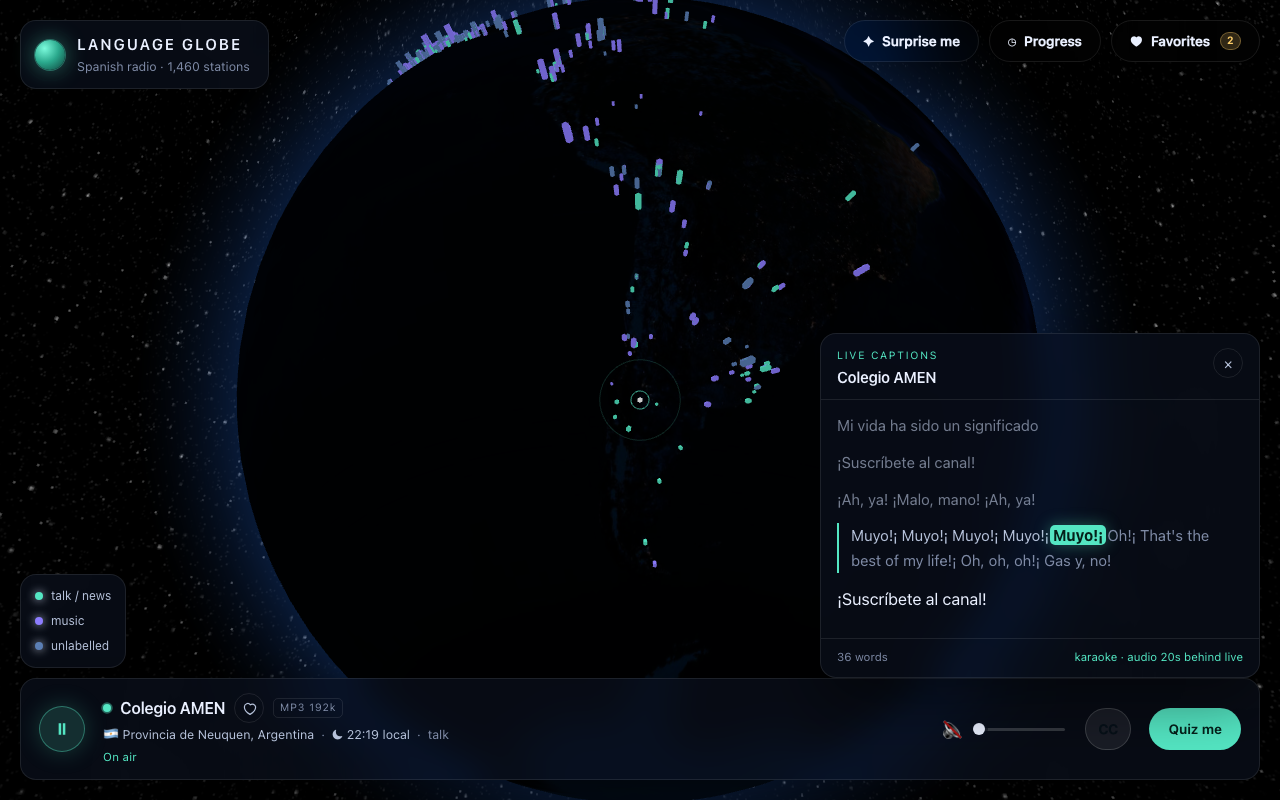
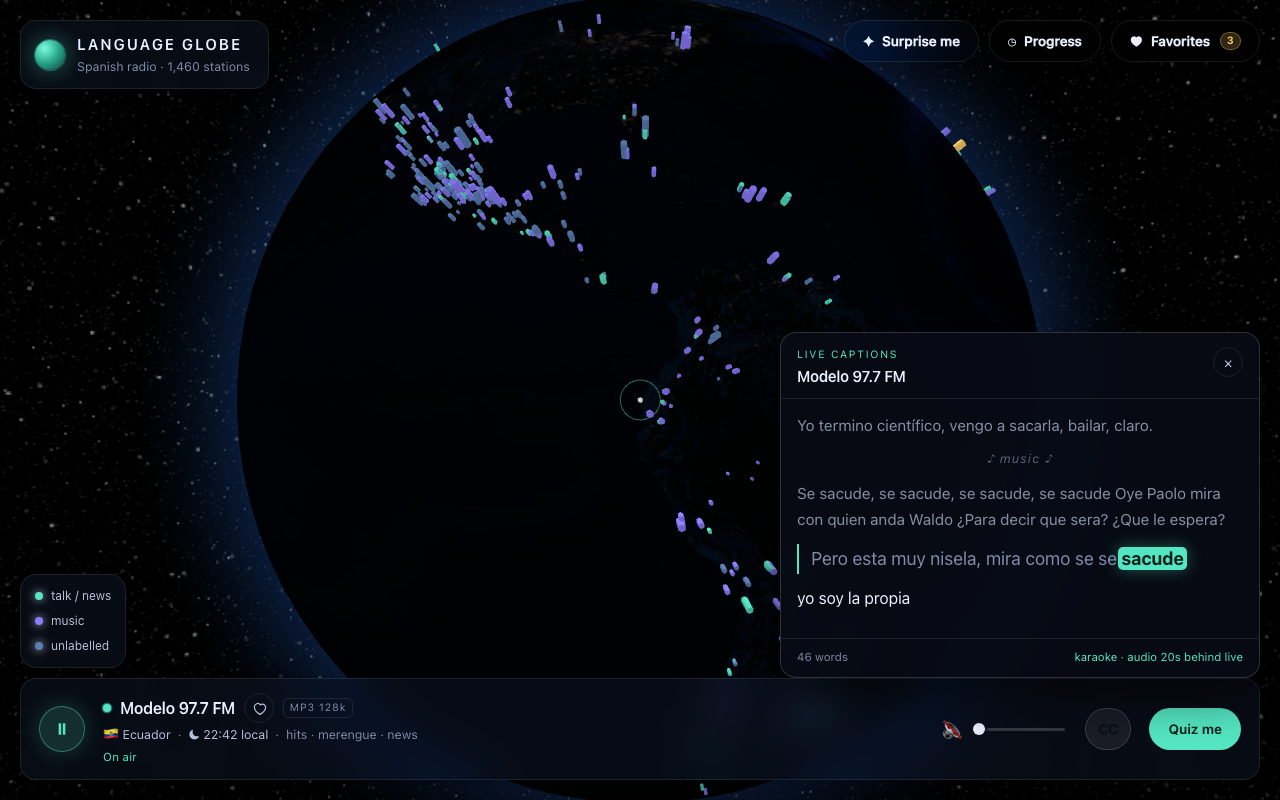
Make captions readable over the globe
The shared glass tint (62% opacity) let the starfield bleed through caption
text. Captions now sit on a near-opaque backdrop with a stronger edge, and
the reading hierarchy follows the audio: the chunk being SPOKEN is the
largest and brightest (it outranks the newest transcribed chunk, which runs
~20s ahead of playback), upcoming words stay readable, and only already-
spoken words fade. Refresh the PR demo assets.

diff --git a/frontend/src/styles.css b/frontend/src/styles.css
@@ -632,12 +632,18 @@ code {
   z-index: 4;
   right: 20px;
   bottom: 122px;
-  width: min(440px, calc(100vw - 40px));
+  width: min(480px, calc(100vw - 40px));
   max-height: min(56vh, 520px);
   display: flex;
   flex-direction: column;
   overflow: hidden;
   animation: rise-in 220ms ease-out;
+  /* Reading surface: the shared .glass tint (62% opacity) lets the globe and
+     starfield bleed through the text, so captions get a near-opaque backdrop
+     and a stronger edge instead. */
+  background: rgba(7, 11, 20, 0.94);
+  border: 1px solid var(--hairline-strong);
+  box-shadow: 0 18px 48px rgba(0, 0, 0, 0.55);
 }
 
 @keyframes rise-in {
@@ -741,21 +747,25 @@ code {
 
 .captions__chunk {
   color: var(--ink-secondary);
-  font-size: 15px;
+  font-size: 15.5px;
   line-height: 1.65;
   margin-bottom: 12px;
-  opacity: 0.62;
+  opacity: 0.72;
 }
 
 .captions__chunk--latest {
   color: var(--ink);
-  font-size: 16.5px;
+  font-size: 16px;
   opacity: 1;
 }
 
+/* The chunk being SPOKEN is the one the reader follows — it outranks the
+   newest transcribed chunk (which is ~20s ahead of the audio). */
 .captions__chunk--playing {
   padding-left: 12px;
   border-left: 2px solid var(--accent);
+  color: #f4f7ff;
+  font-size: 18px;
   opacity: 1;
 }
 
@@ -765,7 +775,7 @@ code {
 }
 
 .captions__word--past {
-  color: var(--ink-secondary);
+  color: var(--ink-muted);
 }
 
 .captions__word--current {
@@ -777,8 +787,10 @@ code {
   margin: -1px -3px;
 }
 
+/* Words about to be spoken are what the reader scans next — keep them
+   readable; only already-spoken words fade. */
 .captions__word--future {
-  color: var(--ink-muted);
+  color: #d7dff2;
 }
 
 .captions__music {
